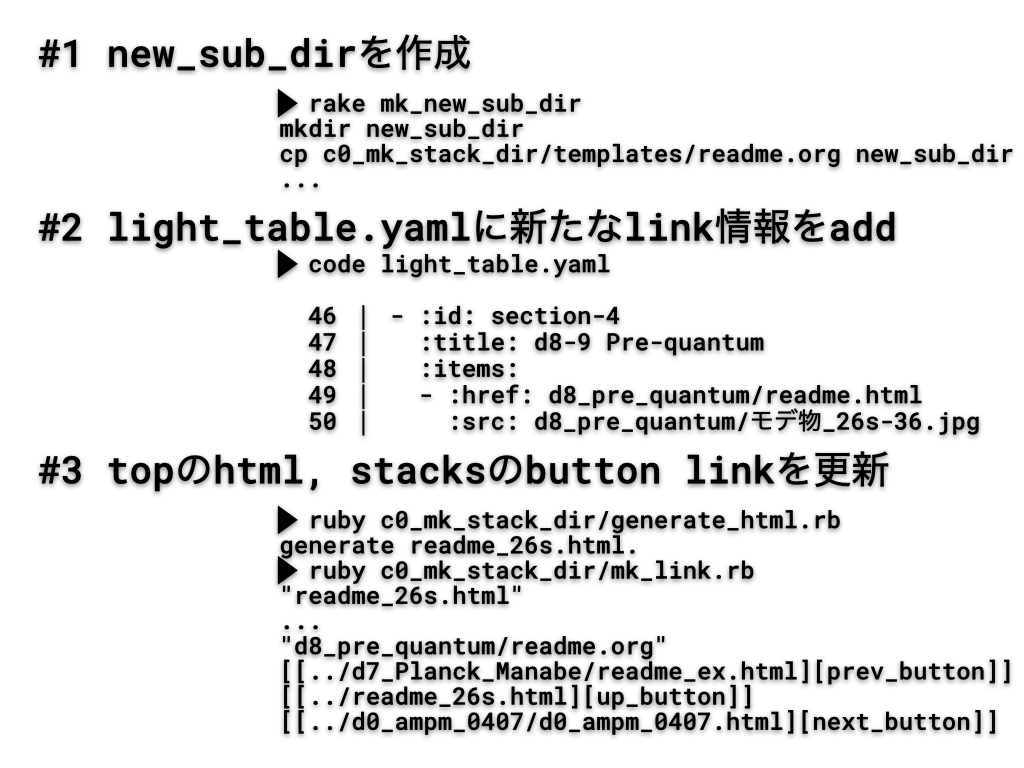
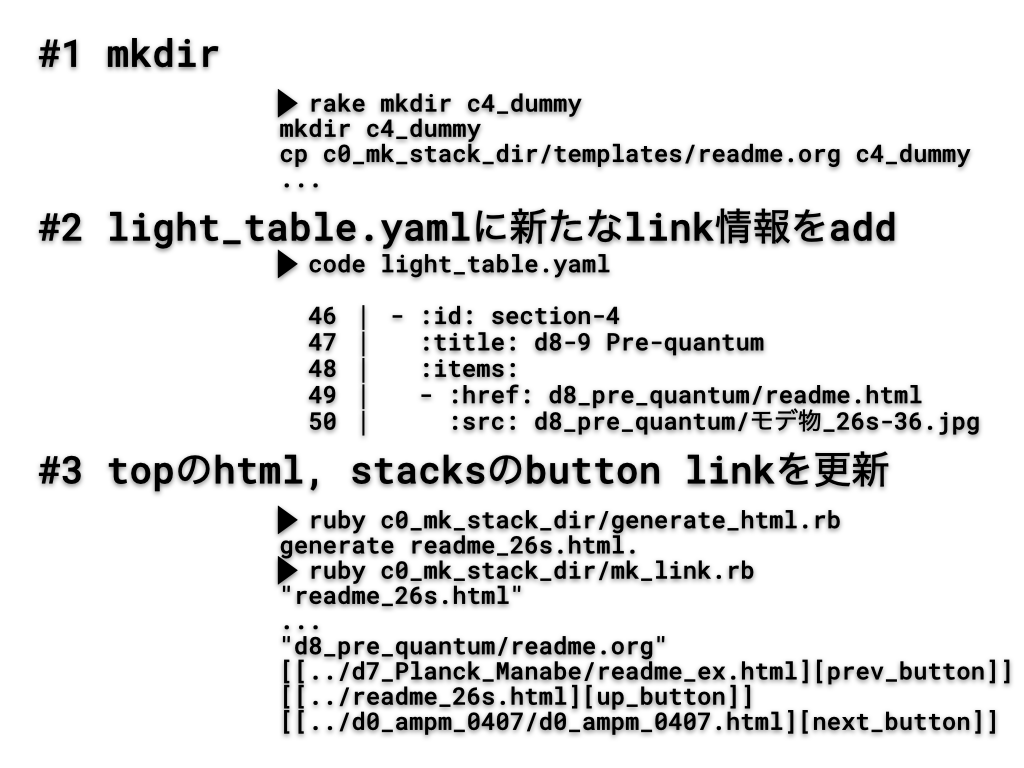
after d09 of compa

Changed region(s): [[0.0938, 0.0312, 0.4688, 0.0938], [0.3438, 0.125, 0.5625, 0.1875], [0.8438, 0.1875, 1.0, 0.2188]]

diff --git a/c0_mk_stack_dir/readme.html b/c0_mk_stack_dir/readme.html
@@ -3,7 +3,7 @@
 "http://www.w3.org/TR/xhtml1/DTD/xhtml1-strict.dtd">
 <html xmlns="http://www.w3.org/1999/xhtml" lang="jp" xml:lang="jp">
 <head>
-<!-- 2026-06-08 Mon 17:44 -->
+<!-- 2026-06-08 Mon 22:56 -->
 <meta http-equiv="Content-Type" content="text/html;charset=utf-8" />
 <meta name="viewport" content="width=device-width, initial-scale=1" />
 <title>mk_stack_dir</title>
@@ -202,9 +202,9 @@
 <h2>Table of Contents</h2>
 <div id="text-table-of-contents" role="doc-toc">
 <ul>
-<li><a href="#org525a531">1. name</a></li>
-<li><a href="#orgf2ca68e">2. install</a></li>
-<li><a href="#org273cb87">3. how to build html</a></li>
+<li><a href="#orgfb027c0">1. name</a></li>
+<li><a href="#org99eaec3">2. install</a></li>
+<li><a href="#orgec6d8c7">3. how to build html</a></li>
 </ul>
 </div>
 </div>
@@ -213,8 +213,8 @@
 <a href="../intro_info_26s.html">up_button</a>
 <a href="../c1_outline/readme.html">next_button</a>
 </p>
-<div id="outline-container-org525a531" class="outline-2">
-<h2 id="org525a531"><span class="section-number-2">1.</span> name</h2>
+<div id="outline-container-orgfb027c0" class="outline-2">
+<h2 id="orgfb027c0"><span class="section-number-2">1.</span> name</h2>
 <div class="outline-text-2" id="text-1">
 <p>
 Hyper Card Stacksの作成を補助するシステム
@@ -233,17 +233,17 @@ Hyper Card Stacksの作成を補助するシステム
 </table>
 </div>
 </div>
-<div id="outline-container-orgf2ca68e" class="outline-2">
-<h2 id="orgf2ca68e"><span class="section-number-2">2.</span> install</h2>
+<div id="outline-container-org99eaec3" class="outline-2">
+<h2 id="org99eaec3"><span class="section-number-2">2.</span> install</h2>
 <div class="outline-text-2" id="text-2">
 <div class="org-src-container">
-<pre class="src src-bash">git clone https://github.com/daddygongon/intro_info_26s
+<pre class="src src-bash">&gt; git clone https://github.com/daddygongon/intro_info_26s
 </pre>
 </div>
 </div>
 </div>
-<div id="outline-container-org273cb87" class="outline-2">
-<h2 id="org273cb87"><span class="section-number-2">3.</span> how to build html</h2>
+<div id="outline-container-orgec6d8c7" class="outline-2">
+<h2 id="orgec6d8c7"><span class="section-number-2">3.</span> how to build html</h2>
 <div class="outline-text-2" id="text-3">
 <table border="2" cellspacing="0" cellpadding="6" rules="groups" frame="hsides">
 
@@ -268,7 +268,7 @@ Hyper Card Stacksの作成を補助するシステム
 </div>
 <div id="postamble" class="status">
 <p class="author">Author: Shigeto R. Nishitani</p>
-<p class="date">Created: 2026-06-08 Mon 17:44</p>
+<p class="date">Created: 2026-06-08 Mon 22:56</p>
 <p class="validation"><a href="https://validator.w3.org/check?uri=referer">Validate</a></p>
 </div>
 </body>

diff --git a/c3_linear_algebra_core/readme.html b/c3_linear_algebra_core/readme.html
@@ -3,7 +3,7 @@
 "http://www.w3.org/TR/xhtml1/DTD/xhtml1-strict.dtd">
 <html xmlns="http://www.w3.org/1999/xhtml" lang="jp" xml:lang="jp">
 <head>
-<!-- 2026-06-05 Fri 13:42 -->
+<!-- 2026-06-08 Mon 22:56 -->
 <meta http-equiv="Content-Type" content="text/html;charset=utf-8" />
 <meta name="viewport" content="width=device-width, initial-scale=1" />
 <title>線形代数イメージ / 卓上スパコン(西谷)</title>
@@ -202,9 +202,9 @@
 <h2>Table of Contents</h2>
 <div id="text-table-of-contents" role="doc-toc">
 <ul>
-<li><a href="#org8387703">1. 写像(Mapping)</a></li>
-<li><a href="#org71af57a">2. CPA vs QR</a></li>
-<li><a href="#org1391a2a">3. stack links</a></li>
+<li><a href="#orgeb1fcc8">1. 写像(Mapping)</a></li>
+<li><a href="#org0a3a661">2. CPA vs QR</a></li>
+<li><a href="#orga06ecee">3. stack links</a></li>
 </ul>
 </div>
 </div>
@@ -213,8 +213,8 @@
 <a href="../intro_info_26s.html">up_button</a>
 <a href="../c0_mk_stack_dir/readme.html">next_button</a>
 </p>
-<div id="outline-container-org8387703" class="outline-2">
-<h2 id="org8387703"><span class="section-number-2">1.</span> 写像(Mapping)</h2>
+<div id="outline-container-orgeb1fcc8" class="outline-2">
+<h2 id="orgeb1fcc8"><span class="section-number-2">1.</span> 写像(Mapping)</h2>
 <div class="outline-text-2" id="text-1">
 <table border="2" cellspacing="0" cellpadding="6" rules="groups" frame="hsides">
 
@@ -234,18 +234,18 @@
 </table>
 </div>
 </div>
-<div id="outline-container-org71af57a" class="outline-2">
-<h2 id="org71af57a"><span class="section-number-2">2.</span> CPA vs QR</h2>
+<div id="outline-container-org0a3a661" class="outline-2">
+<h2 id="org0a3a661"><span class="section-number-2">2.</span> CPA vs QR</h2>
 <div class="outline-text-2" id="text-2">
 
-<div id="org5d2ff3e" class="figure">
+<div id="orgb38e770" class="figure">
 <p><img src="./linear_algebra_core/linear_algebra_core.004.png" alt="linear_algebra_core.004.png" />
 </p>
 </div>
 </div>
 </div>
-<div id="outline-container-org1391a2a" class="outline-2">
-<h2 id="org1391a2a"><span class="section-number-2">3.</span> stack links</h2>
+<div id="outline-container-orga06ecee" class="outline-2">
+<h2 id="orga06ecee"><span class="section-number-2">3.</span> stack links</h2>
 <div class="outline-text-2" id="text-3">
 <ul class="org-ul">
 <li><a href="https://ist.ksc.kwansei.ac.jp/~nishitani/Lectures/2026/linear_algebra_core/c5_svd_vs_qr/readme.html">la_core/svd_vs_qr(symlink)</a></li>
@@ -257,7 +257,7 @@
 </div>
 <div id="postamble" class="status">
 <p class="author">Author: Shigeto R. Nishitani</p>
-<p class="date">Created: 2026-06-05 Fri 13:42</p>
+<p class="date">Created: 2026-06-08 Mon 22:56</p>
 <p class="validation"><a href="https://validator.w3.org/check?uri=referer">Validate</a></p>
 </div>
 </body>

diff --git a/c2_solar_system/readme.html b/c2_solar_system/readme.html
@@ -3,7 +3,7 @@
 "http://www.w3.org/TR/xhtml1/DTD/xhtml1-strict.dtd">
 <html xmlns="http://www.w3.org/1999/xhtml" lang="jp" xml:lang="jp">
 <head>
-<!-- 2026-06-05 Fri 13:42 -->
+<!-- 2026-06-08 Mon 22:56 -->
 <meta http-equiv="Content-Type" content="text/html;charset=utf-8" />
 <meta name="viewport" content="width=device-width, initial-scale=1" />
 <title>ケプラーの法則イメージ / 卓上スパコン(西谷)</title>
@@ -234,9 +234,9 @@
 <h2>Table of Contents</h2>
 <div id="text-table-of-contents" role="doc-toc">
 <ul>
-<li><a href="#org3d2977e">1. ケプラーの法則のイメージ(重力場)</a></li>
-<li><a href="#org172d6eb">2. 調和の法則(Kepler's third law: Harmonies)</a></li>
-<li><a href="#orgb49d20e">3. file links</a></li>
+<li><a href="#orgb4a8d22">1. ケプラーの法則のイメージ(重力場)</a></li>
+<li><a href="#orgdaed836">2. 調和の法則(Kepler's third law: Harmonies)</a></li>
+<li><a href="#org30351d4">3. file links</a></li>
 </ul>
 </div>
 </div>
@@ -245,8 +245,8 @@
 <a href="../intro_info_26s.html">up_button</a>
 <a href="../c3_linear_algebra_core/readme.html">next_button</a>
 </p>
-<div id="outline-container-org3d2977e" class="outline-2">
-<h2 id="org3d2977e"><span class="section-number-2">1.</span> ケプラーの法則のイメージ(重力場)</h2>
+<div id="outline-container-orgb4a8d22" class="outline-2">
+<h2 id="orgb4a8d22"><span class="section-number-2">1.</span> ケプラーの法則のイメージ(重力場)</h2>
 <div class="outline-text-2" id="text-1">
 <table border="2" cellspacing="0" cellpadding="6" rules="groups" frame="hsides">
 
@@ -262,8 +262,8 @@
 </table>
 </div>
 </div>
-<div id="outline-container-org172d6eb" class="outline-2">
-<h2 id="org172d6eb"><span class="section-number-2">2.</span> 調和の法則(Kepler's third law: Harmonies)</h2>
+<div id="outline-container-orgdaed836" class="outline-2">
+<h2 id="orgdaed836"><span class="section-number-2">2.</span> 調和の法則(Kepler's third law: Harmonies)</h2>
 <div class="outline-text-2" id="text-2">
 <table border="2" cellspacing="0" cellpadding="6" rules="groups" frame="hsides">
 
@@ -363,8 +363,8 @@
 </table>
 </div>
 </div>
-<div id="outline-container-orgb49d20e" class="outline-2">
-<h2 id="orgb49d20e"><span class="section-number-2">3.</span> file links</h2>
+<div id="outline-container-org30351d4" class="outline-2">
+<h2 id="org30351d4"><span class="section-number-2">3.</span> file links</h2>
 <div class="outline-text-2" id="text-3">
 <ul class="org-ul">
 <li><a href="./SolarSystem.mw">./SolarSystem.mw</a></li>
@@ -378,7 +378,7 @@
 </div>
 <div id="postamble" class="status">
 <p class="author">Author: Shigeto R. Nishitani</p>
-<p class="date">Created: 2026-06-05 Fri 13:42</p>
+<p class="date">Created: 2026-06-08 Mon 22:56</p>
 <p class="validation"><a href="https://validator.w3.org/check?uri=referer">Validate</a></p>
 </div>
 </body>